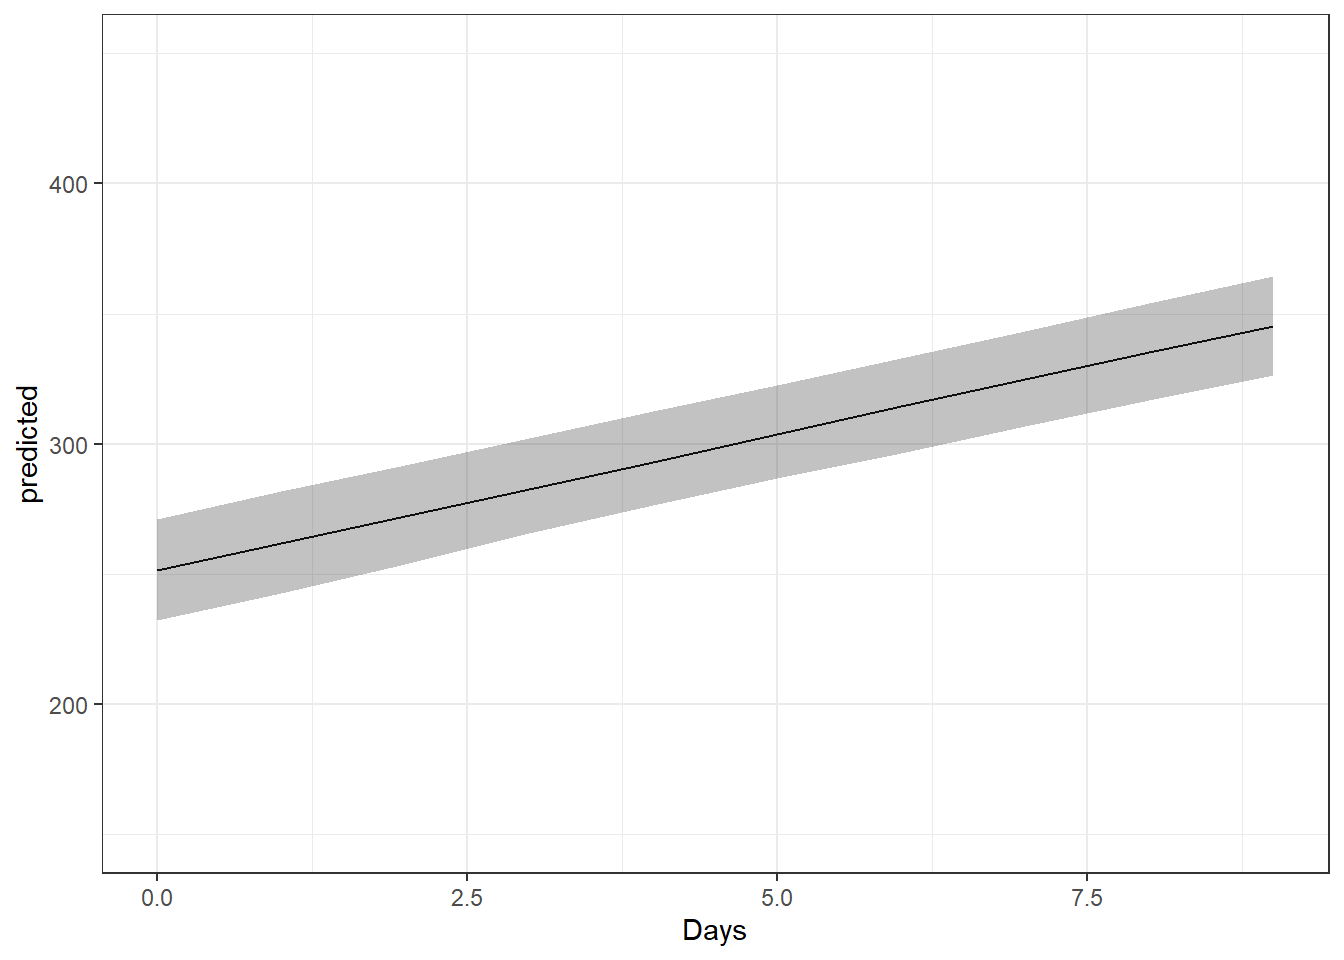
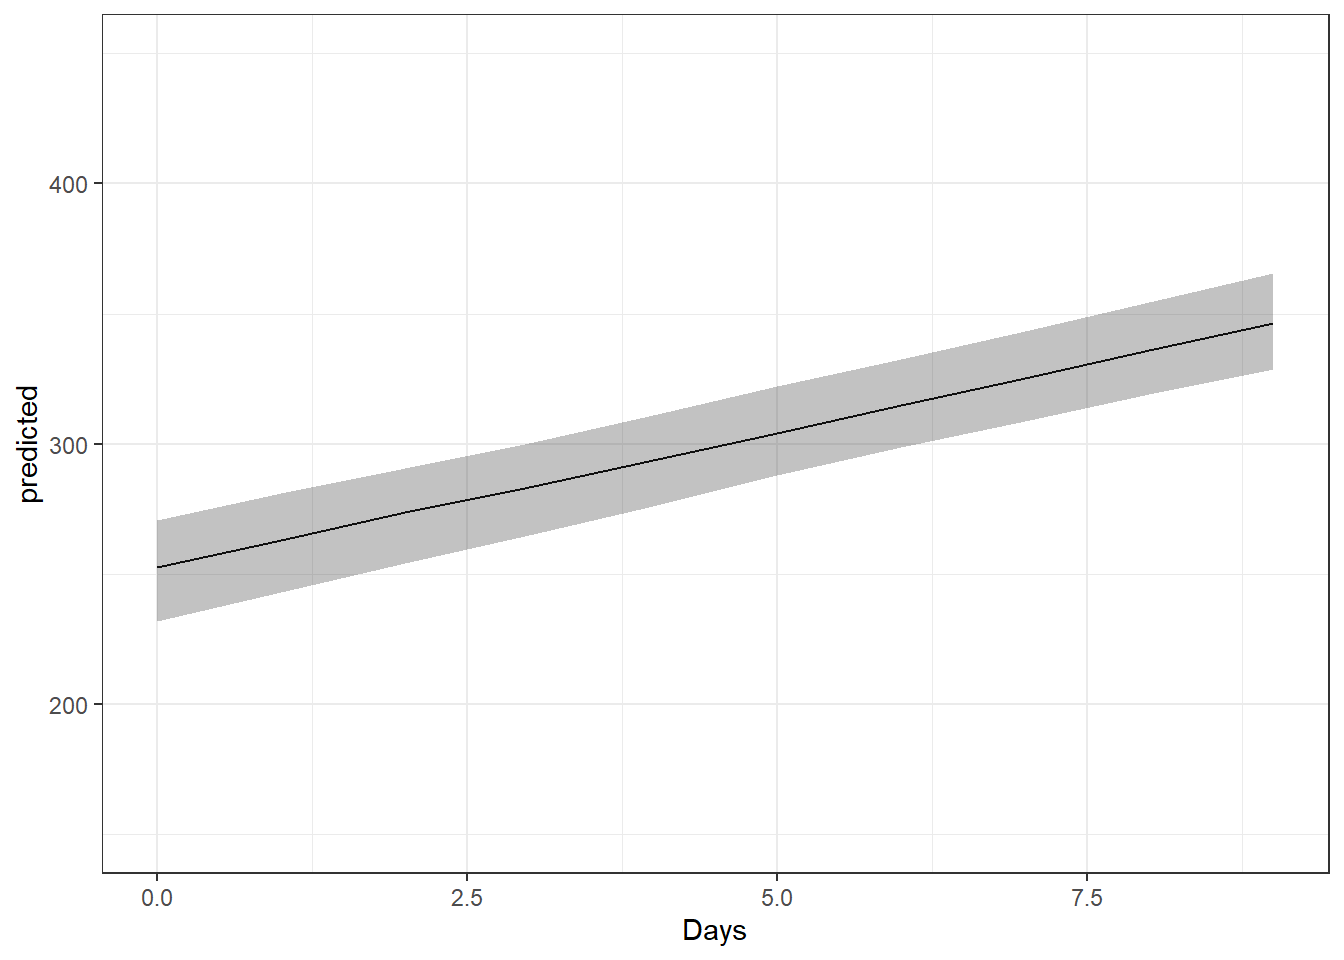
minor changes

diff --git a/2023_Spring/tutorials/Advanced_mixed_model_plotting.html b/2023_Spring/tutorials/Advanced_mixed_model_plotting.html
@@ -369,7 +369,8 @@ F-statistic: 71.46 on 1 and 178 DF,  p-value: 9.894e-15</code></pre>
 <span id="cb15-7"><a href="#cb15-7" aria-hidden="true" tabindex="-1"></a>  <span class="fu">ggplot</span>(<span class="fu">aes</span>(Days, predicted)) <span class="sc">+</span></span>
 <span id="cb15-8"><a href="#cb15-8" aria-hidden="true" tabindex="-1"></a>  <span class="fu">geom_line</span>(<span class="fu">aes</span>(Days, fit), <span class="at">show.legend =</span> <span class="cn">FALSE</span>) <span class="sc">+</span></span>
 <span id="cb15-9"><a href="#cb15-9" aria-hidden="true" tabindex="-1"></a>  <span class="fu">geom_ribbon</span>(<span class="fu">aes</span>(<span class="at">ymin =</span> lwr, <span class="at">ymax =</span> upr), <span class="at">alpha =</span> <span class="fl">0.3</span>, <span class="at">show.legend =</span> <span class="cn">FALSE</span>)<span class="sc">+</span></span>
-<span id="cb15-10"><a href="#cb15-10" aria-hidden="true" tabindex="-1"></a>  <span class="fu">theme_bw</span>()</span></code><button title="Copy to Clipboard" class="code-copy-button"><i class="bi"></i></button></pre></div>
+<span id="cb15-10"><a href="#cb15-10" aria-hidden="true" tabindex="-1"></a>  <span class="fu">ylim</span>(<span class="fu">c</span>(<span class="dv">150</span>,<span class="dv">450</span>))<span class="sc">+</span></span>
+<span id="cb15-11"><a href="#cb15-11" aria-hidden="true" tabindex="-1"></a>  <span class="fu">theme_bw</span>()</span></code><button title="Copy to Clipboard" class="code-copy-button"><i class="bi"></i></button></pre></div>
 <div class="cell-output-display">
 <p><img src="Advanced_mixed_model_plotting_files/figure-html/unnamed-chunk-12-1.png" class="img-fluid" width="672"></p>
 </div>
@@ -385,11 +386,13 @@ F-statistic: 71.46 on 1 and 178 DF,  p-value: 9.894e-15</code></pre>
 <span id="cb16-7"><a href="#cb16-7" aria-hidden="true" tabindex="-1"></a>  <span class="fu">ggplot</span>(<span class="fu">aes</span>(Days, predicted)) <span class="sc">+</span></span>
 <span id="cb16-8"><a href="#cb16-8" aria-hidden="true" tabindex="-1"></a>  <span class="fu">geom_line</span>(<span class="fu">aes</span>(Days, fit), <span class="at">show.legend =</span> <span class="cn">FALSE</span>) <span class="sc">+</span></span>
 <span id="cb16-9"><a href="#cb16-9" aria-hidden="true" tabindex="-1"></a>  <span class="fu">geom_ribbon</span>(<span class="fu">aes</span>(<span class="at">ymin =</span> lwr, <span class="at">ymax =</span> upr), <span class="at">alpha =</span> <span class="fl">0.3</span>, <span class="at">show.legend =</span> <span class="cn">FALSE</span>)<span class="sc">+</span></span>
-<span id="cb16-10"><a href="#cb16-10" aria-hidden="true" tabindex="-1"></a>  <span class="fu">theme_bw</span>()</span></code><button title="Copy to Clipboard" class="code-copy-button"><i class="bi"></i></button></pre></div>
+<span id="cb16-10"><a href="#cb16-10" aria-hidden="true" tabindex="-1"></a>   <span class="fu">ylim</span>(<span class="fu">c</span>(<span class="dv">150</span>,<span class="dv">450</span>))<span class="sc">+</span></span>
+<span id="cb16-11"><a href="#cb16-11" aria-hidden="true" tabindex="-1"></a>  <span class="fu">theme_bw</span>()</span></code><button title="Copy to Clipboard" class="code-copy-button"><i class="bi"></i></button></pre></div>
 <div class="cell-output-display">
 <p><img src="Advanced_mixed_model_plotting_files/figure-html/unnamed-chunk-13-1.png" class="img-fluid" width="672"></p>
 </div>
 </div>
+<p>If you need to compute effects with random factors, I would recommend using the <code>simulate</code> function described in Dean Marchiori’s tutorial.</p>
 <p><br></p>
 </section>
 <section id="potential-discussion-points" class="level2">
